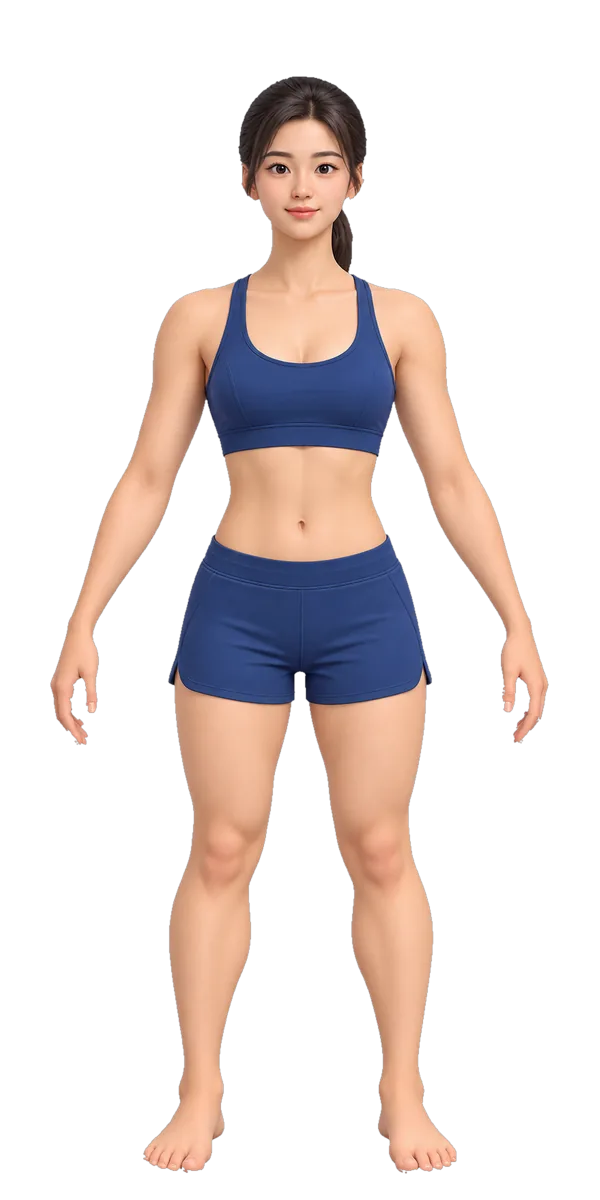
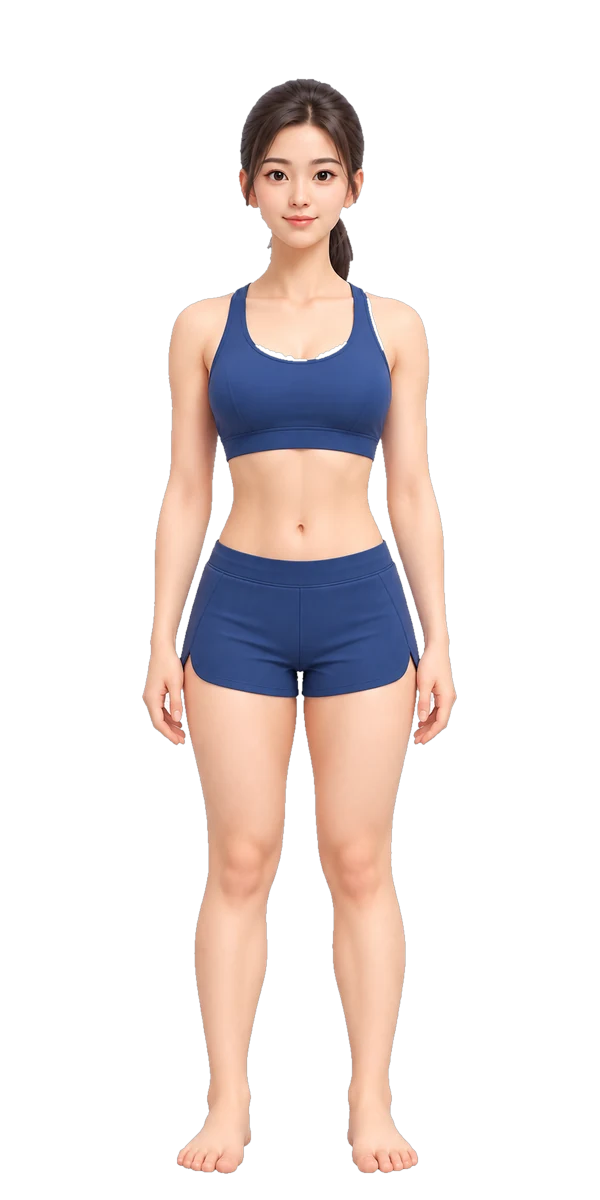
ui(số đo): thay ảnh 3D nam / nữ mới (đã tách nền, làm sạch viền), đo lại toạ độ 6 vòng thước
Claude-Session: https://claude.ai/code/session_0163KSZYdzHDud2uG42gs7mp

Changed region(s): [[0.09, 0.0617, 0.93, 0.9867], [0.45, 0.4317, 0.57, 0.4933]]

diff --git a/src/mobile/BodyFigure.jsx b/src/mobile/BodyFigure.jsx
@@ -2,10 +2,10 @@
 // Vòng: nét liền phía trước người, nét đứt mờ phía sau. active = ô đang nhập → vòng đó đậm, vòng khác mờ.
 import { FIELDS } from "../lib/bodyMeasure";
 
-// Toạ độ trên khung 600×1200: k → [y, x trái, x phải] (đo từ ảnh, 17/10)
+// Toạ độ trên khung 600×1200: k → [y, x trái, x phải] (đo lại từ ảnh mới 18/10)
 const BANDS = {
-  male: { chest: [318, 178, 422], arm: [410, 413, 484], waist: [462, 212, 389], belly: [492, 208, 393], hip: [640, 172, 430], thigh: [765, 176, 280] },
-  female: { chest: [372, 196, 404], arm: [450, 412, 465], waist: [488, 228, 373], belly: [515, 223, 378], hip: [668, 172, 430], thigh: [780, 187, 274] },
+  male: { chest: [370, 186, 412], arm: [440, 408, 468], waist: [470, 216, 384], belly: [510, 212, 389], hip: [640, 178, 424], thigh: [770, 189, 279] },
+  female: { chest: [395, 205, 395], arm: [460, 384, 427], waist: [490, 233, 368], belly: [530, 222, 378], hip: [650, 182, 418], thigh: [780, 200, 285] },
 };
 const LEFT = new Set(["chest", "waist", "hip", "thigh"]);
 
